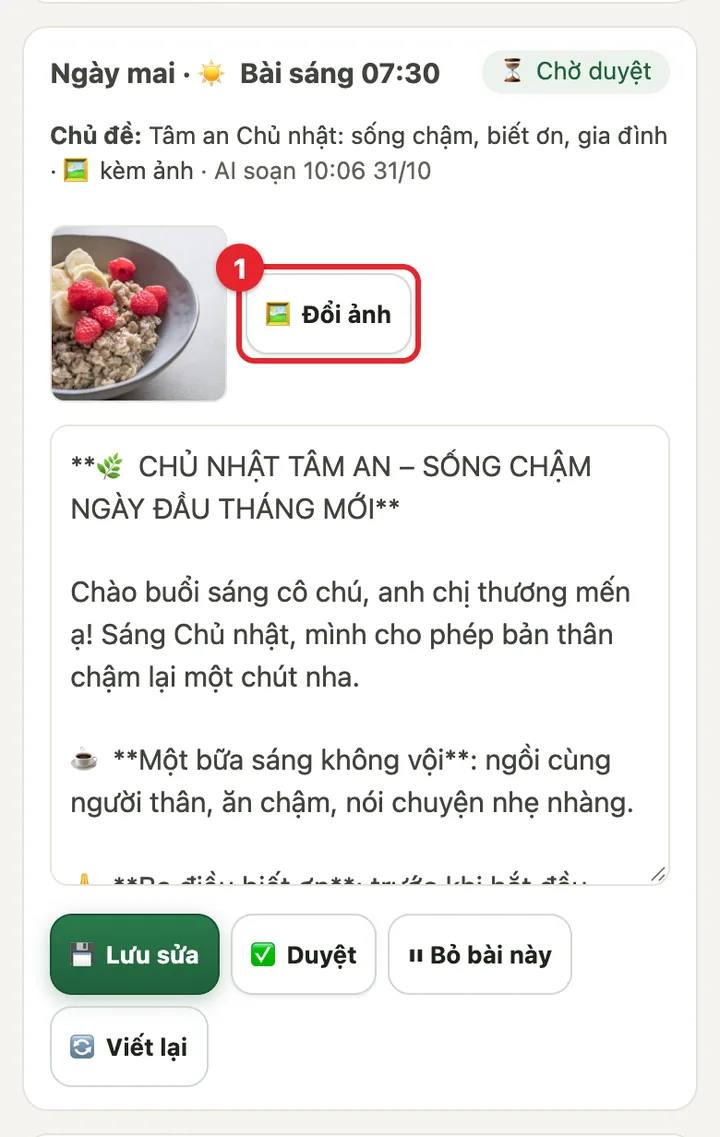
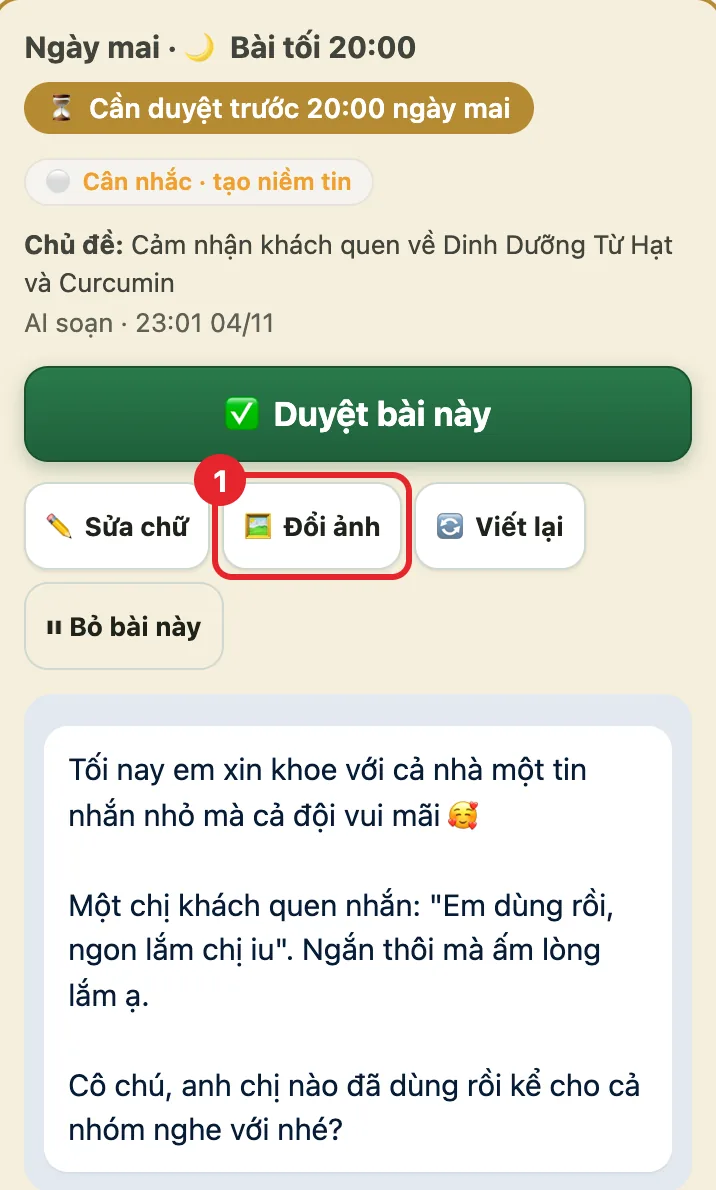
CRM Trợ lý Zalo: bài cần duyệt lên đầu (viền vàng, hạn duyệt), xem trước giống Zalo, nút Duyệt to, Sửa chữ mở khi cần, bài đã đăng thu gọn; hướng dẫn có ảnh mới

diff --git a/crm/app.js b/crm/app.js
@@ -5240,27 +5240,41 @@
     var fu = j.funnel || {}, fk = ['TOFU', 'MOFU', 'BOFU', 'TIN', 'CHUC'].filter(function (k) { return fu[k]; });
     if (fk.length) h += '<h2 class="zb-h">📊 Hiệu quả bài đăng theo phễu (30 ngày)</h2><p class="muted small">Đếm trong 2 tiếng sau mỗi bài: số người nhắn / gửi ảnh / thả cảm xúc (không tính đội ngũ). Đơn: khách bấm link trong bài rồi đặt trên web.</p><div class="zb-funs">' +
       fk.map(function (k) { var f = fu[k]; return '<div class="box zb-funbox"><span class="zb-fun zb-fun-' + k.toLowerCase() + '">' + ZB_FUN[k] + '</span><p><b>' + f.posts + '</b> bài · trung bình <b>' + (Math.round(f.people / f.posts * 10) / 10) + '</b> người tương tác / bài</p><p class="small muted">💬 ' + f.msgs + ' tin · ❤ ' + f.reacts + ' cảm xúc' + (f.orders ? ' · 🛒 ' + f.orders + ' đơn, ' + moneyShort(f.rev) : '') + '</p></div>'; }).join('') + '</div>';
-    h += '<h2 class="zb-h">📝 Bài đăng nhóm</h2><p class="muted small">AI soạn trước theo lịch chủ đề trong tuần, dùng đúng thông tin sản phẩm trên web. ' + (c.slots || []).filter(function (q) { return q.on; }).map(function (q) { return (q.id === 'toi' ? '🌙 Bài tối ' : '☀ Bài sáng ') + q.at + ': <b>' + (slA(q.id) ? '🤖 tự đăng' : '⏳ chờ duyệt') + '</b>'; }).join(' · ') + '. Tự đăng: tới giờ trợ lý đăng bài AI soạn, thấy chưa ổn thì sửa ngay trong ô hoặc bấm <b>⏸ Bỏ bài này</b>. Chờ duyệt: chỉ bài đã bấm <b>✅ Duyệt</b> mới được đăng. Đổi ở <b>⚙ Cài đặt trợ lý</b>.</p>';
-    days.forEach(function (d) {
-      (c.slots || []).forEach(function (sl) {
-        var p = P[d + '_' + sl.id]; if (!p && !sl.on) return;
-        var lbl = zbDay(d) + ' · ' + (sl.id === 'toi' ? '🌙 Bài tối' : '☀ Bài sáng') + ' ' + sl.at;
-        var auto = slA(sl.id);
-        if (!p) { if (new Date(d.slice(0, 4) + '-' + d.slice(4, 6) + '-' + d.slice(6, 8) + 'T' + (sl.at || '00:00') + ':00+07:00').getTime() < j.now) return; h += '<div class="box zb-post zb-none"><p><b>' + lbl + '</b> · <span class="muted">⏳ chưa soạn – AI soạn trước giờ đăng</span></p><button class="btn sm" data-zb="regen|' + d + '_' + sl.id + '">✍ Soạn ngay</button></div>'; return; }
-        var badge = p.status === 'sent' ? '📤 Đã đăng ' + fDateTime(p.sent_at) : p.status === 'fail' ? '⚠ Không đăng được (xem 🕘 Trợ lý vừa làm gì)' : p.status === 'skip' ? '⏸ Đã bỏ, không đăng' : p.status === 'ok' ? '✅ Đã duyệt, sẽ đăng lúc ' + sl.at : auto ? '✍ Nháp, sẽ tự đăng lúc ' + sl.at : '⏳ Chờ duyệt';
-        var done = p.status === 'sent';
-        h += '<div class="box zb-post zb-' + p.status + '"><div class="zb-ph"><b>' + lbl + '</b><span class="zb-badge">' + badge + '</span></div>' +
-          (p.funnel ? '<span class="zb-fun zb-fun-' + p.funnel.toLowerCase() + '">' + ZB_FUN[p.funnel] + '</span>' : '') +
-          (done ? '<p class="small zb-eng">📊 2 tiếng sau khi đăng: <b>' + (p.eng_people || 0) + '</b> người tương tác · 💬 ' + (p.eng_msgs || 0) + ' tin · ❤ ' + (p.eng_reacts || 0) + ' cảm xúc' + (p.orders ? ' · 🛒 <b>' + p.orders + ' đơn</b> (' + moneyShort(p.rev) + ') từ link trong bài' : '') + '</p>' : '') +
-          '<p class="small"><b>Chủ đề:</b> ' + esc(p.topic) + (p.img ? ' · 🖼 kèm ảnh' : ' · <span class="muted">không kèm ảnh</span>') + ' <span class="muted">· ' + (p.by_name && p.by_name !== 'AI' ? 'sửa bởi ' + esc(p.by_name) : 'AI soạn') + ' ' + fDateTime(p.at) + '</span></p>' +
-          '<div class="zb-imgbar">' + (p.img ? '<img class="zb-img" src="' + esc(p.img) + '" alt="Ảnh kèm bài" loading="lazy">' : '') + (done ? '' : '<button class="btn sm" data-zb="img|' + p.id + '">🖼 ' + (p.img ? 'Đổi ảnh' : 'Thêm ảnh') + '</button>') + '</div>' +
-          '<textarea class="zb-text" id="zbT_' + p.id + '" rows="' + Math.min(16, Math.max(4, String(p.text).split('\n').length + 1)) + '"' + (done ? ' readonly' : '') + '>' + esc(p.text) + '</textarea>' +
-          (done ? '' : '<div class="lq-btns"><button class="btn sm pri" data-zb="save|' + p.id + '">💾 Lưu sửa</button>' + (!auto && p.status !== 'ok' ? '<button class="btn sm" data-zb="ok|' + p.id + '">✅ Duyệt</button>' : '') +
-            (p.status === 'skip' ? '<button class="btn sm" data-zb="draft|' + p.id + '">▶ Đăng lại bài này</button>' : '<button class="btn sm ghost" data-zb="skip|' + p.id + '">⏸ Bỏ bài này</button>') +
-            '<button class="btn sm ghost" data-zb="regen|' + p.id + '">🔄 Viết lại</button></div>') + '</div>';
-      });
+    // 📝 bài đăng (05/11/2026 sắp lại): bài cần duyệt lên đầu + xem trước giống Zalo, bài đã đăng thu gọn 1 dòng
+    var items = [];
+    days.forEach(function (d) { (c.slots || []).forEach(function (sl) { var p = P[d + '_' + sl.id]; if (!p && !sl.on) return; items.push({ d: d, sl: sl, p: p, t: new Date(d.slice(0, 4) + '-' + d.slice(4, 6) + '-' + d.slice(6, 8) + 'T' + (sl.at || '00:00') + ':00+07:00').getTime() }); }); });
+    var isDone = function (it) { return it.p && (it.p.status === 'sent' || it.p.status === 'skip' || it.p.status === 'fail' || it.t + 2 * 3600e3 < j.now); };
+    var todo = items.filter(function (it) { return !isDone(it) && (it.p || it.t > j.now); }).sort(function (x, y) { return x.t - y.t; });
+    var past = items.filter(isDone).sort(function (x, y) { return y.t - x.t; });
+    var slotTxt = function (sl) { return (sl.id === 'toi' ? '🌙 Bài tối ' : '☀ Bài sáng ') + sl.at; };
+    h += '<div class="zb-done-h"><h2 class="zb-h">📝 Bài đăng nhóm</h2><span class="small">' + (c.slots || []).filter(function (q) { return q.on; }).map(function (q) { return slotTxt(q) + ': <b>' + (slA(q.id) ? '🤖 tự đăng' : '⏳ chờ duyệt') + '</b>'; }).join(' · ') + '</span></div>' +
+      '<details class="zb-info small"><summary>ⓘ Cách hoạt động</summary><p>AI soạn trước theo lịch chủ đề trong tuần, dùng đúng thông tin sản phẩm trên web. <b>Chờ duyệt</b>: chỉ bài đã bấm <b>✅ Duyệt</b> mới được đăng. <b>Tự đăng</b>: tới giờ trợ lý đăng bài AI soạn, thấy chưa ổn thì sửa hoặc bấm <b>⏸ Bỏ bài này</b>. Đổi ở <b>⚙ Cài đặt trợ lý</b>.</p><p>AI tự chọn ảnh: bài về sản phẩm kèm ảnh sản phẩm, bài khác chọn ảnh thật hợp chủ đề (không có ảnh hợp thì chỉ đăng chữ). Không đăng từ 21h45 tới 6h sáng. Khung bên trái là <b>bài sẽ hiện trên Zalo</b>; muốn sửa chữ bấm <b>✏ Sửa chữ</b> (chữ trong **hai dấu sao** sẽ in đậm).</p>' + (j.err ? '<p class="err">Lần soạn lỗi gần nhất: ' + esc(j.err) + '</p>' : '') + '</details>';
+    todo.forEach(function (it) {
+      var p = it.p, sl = it.sl, lbl = zbDay(it.d) + ' · ' + slotTxt(sl), auto = slA(sl.id);
+      if (!p) { h += '<div class="box zb-post zb-none"><p><b>' + lbl + '</b> · <span class="muted">⏳ chưa soạn – AI soạn trước giờ đăng</span></p><button class="btn sm" data-zb="regen|' + it.d + '_' + sl.id + '">✍ Soạn ngay</button></div>'; return; }
+      var when = sl.at + ' ' + zbDay(it.d).toLowerCase(), need = p.status !== 'ok' && !auto;
+      var due = p.status === 'ok' ? '✅ Đã duyệt · sẽ đăng ' + when : auto ? '🤖 Sẽ tự đăng ' + when : '⏳ Cần duyệt trước ' + when;
+      h += '<div class="box zb-post zb-' + p.status + (need ? ' zb-need' : '') + '" data-zbcard="' + p.id + '"><div class="zb-ph"><b>' + lbl + '</b><span class="zb-due">' + due + '</span></div>' +
+        '<div class="zb-grid"><div class="zb-prev">' + (p.img ? '<img src="' + esc(p.img) + '" alt="Ảnh kèm bài" loading="lazy">' : '') + '<div class="zb-bub">' + zbRender(p.text) + '</div>' + (p.img ? '' : '<p class="small muted" style="margin:6px 2px 0">Bài này không kèm ảnh</p>') + '</div>' +
+        '<div class="zb-side">' + (p.funnel ? '<span class="zb-fun zb-fun-' + p.funnel.toLowerCase() + '">' + ZB_FUN[p.funnel] + '</span>' : '') +
+        '<p class="small" style="margin:6px 0"><b>Chủ đề:</b> ' + esc(p.topic) + '<br><span class="muted">' + (p.by_name && p.by_name !== 'AI' ? 'Sửa bởi ' + esc(p.by_name) : 'AI soạn') + ' · ' + fDateTime(p.at) + '</span></p>' +
+        (need ? '<button class="btn pri zb-act" data-zb="ok|' + p.id + '">✅ Duyệt bài này</button>' : '') +
+        '<div class="zb-more"><button class="btn sm" data-zb="edit|' + p.id + '">✏ Sửa chữ</button><button class="btn sm" data-zb="img|' + p.id + '">🖼 ' + (p.img ? 'Đổi ảnh' : 'Thêm ảnh') + '</button><button class="btn sm" data-zb="regen|' + p.id + '">🔄 Viết lại</button>' +
+        (p.status === 'ok' ? '<button class="btn sm ghost" data-zb="draft|' + p.id + '">↩ Bỏ duyệt</button>' : '') + '<button class="btn sm ghost" data-zb="skip|' + p.id + '">⏸ Bỏ bài này</button></div>' +
+        '<div class="zb-edit"><textarea class="zb-text" id="zbT_' + p.id + '" rows="' + Math.min(18, Math.max(6, String(p.text).split('\n').length + 2)) + '">' + esc(p.text) + '</textarea><div class="lq-btns"><button class="btn sm pri" data-zb="save|' + p.id + '">💾 Lưu</button><button class="btn sm ghost" data-zb="edit|' + p.id + '">Huỷ</button></div></div>' +
+        '</div></div></div>';
     });
-    h += '<p class="bar-legend">Chữ trong <b>**hai dấu sao**</b> sẽ in đậm trên Zalo. AI tự chọn ảnh: bài về sản phẩm kèm ảnh sản phẩm, bài khác chọn ảnh thật hợp chủ đề trong kho ảnh web (không có ảnh hợp thì chỉ đăng chữ). Bấm <b>🖼 Đổi ảnh</b> để chọn ảnh khác hoặc tải ảnh từ máy. Không đăng từ 21h45 tới 6h sáng.' + (j.err ? ' Lần soạn lỗi gần nhất: ' + esc(j.err) : '') + '</p>';
+    if (past.length) {
+      h += '<h3 class="zb-h" style="font-size:1rem">📤 Đã đăng gần đây <span class="muted small">· bấm để xem lại, xem hết ở 📚 Bài đã đăng &amp; hiệu quả</span></h3>';
+      past.forEach(function (it) {
+        var p = it.p; if (!p) return;
+        var st = p.status === 'sent' ? '📤 ' + fDateTime(p.sent_at) : p.status === 'fail' ? '⚠ Không đăng được' : p.status === 'skip' ? '⏸ Đã bỏ' : '⌛ Quá giờ, chưa đăng';
+        h += '<details class="box zb-donei"><summary><span class="zb-donel"><b>' + zbDay(it.d) + ' · ' + slotTxt(it.sl) + '</b> <span class="muted small">' + st + '</span></span><span class="zb-donet">' + esc(p.topic) + '</span>' +
+          (p.status === 'sent' ? '<span class="zb-eng small">👥 <b>' + (p.eng_people || 0) + '</b> · 💬 ' + (p.eng_msgs || 0) + ' · ❤ ' + (p.eng_reacts || 0) + (p.orders ? ' · 🛒 <b>' + p.orders + '</b>' : '') + '</span>' : '') + '</summary>' +
+          '<div class="zb-prev" style="margin-top:10px">' + (p.img ? '<img src="' + esc(p.img) + '" alt="" loading="lazy">' : '') + '<div class="zb-bub">' + zbRender(p.text) + '</div></div>' +
+          (p.status === 'skip' ? '<div class="lq-btns" style="margin-top:8px"><button class="btn sm" data-zb="draft|' + p.id + '">▶ Dùng lại bài này</button></div>' : '') + '</details>';
+      });
+    }
     // cài đặt
     var sg = (st && st.groups) || [], ck = function (k, t, sub) { return '<label class="zb-ck"><input type="checkbox" data-zbc="' + k + '"' + (c[k] ? ' checked' : '') + '><span><b>' + t + '</b>' + (sub ? '<small>' + sub + '</small>' : '') + '</span></label>'; };
     h += '<details class="box zb-set"><summary><b>⚙ Cài đặt trợ lý</b></summary>' +
@@ -5306,9 +5320,10 @@
     var after = function (msg) { return function () { toast(msg); zbFetch(); }; }, fail = function (e) { t.disabled = false; toast(e.message, true); };
     if (v[0] === 'save' || v[0] === 'ok' || v[0] === 'skip' || v[0] === 'draft') {
       var ta = $('#zbT_' + id); t.disabled = true;
-      return api('zb_post', { id: id, text: ta ? ta.value : undefined, status: v[0] === 'save' ? undefined : v[0] }).then(after({ save: 'Đã lưu bài ✓', ok: 'Đã duyệt ✓ Tới giờ trợ lý sẽ đăng.', skip: 'Đã bỏ bài này, trợ lý sẽ không đăng.', draft: 'Đã dùng lại bài này ✓' }[v[0]]), fail);
+      return api('zb_post', { id: id, text: ta ? ta.value : undefined, status: v[0] === 'save' ? undefined : v[0] }).then(after({ save: 'Đã lưu bài ✓', ok: 'Đã duyệt ✓ Tới giờ trợ lý sẽ đăng.', skip: 'Đã bỏ bài này, trợ lý sẽ không đăng.', draft: 'Bài đã quay lại chờ duyệt ✓' }[v[0]]), fail);
     }
     if (v[0] === 'img') return zbImgOpen(id);
+    if (v[0] === 'edit') { var cd = t.closest('[data-zbcard]'); if (cd) { cd.classList.toggle('zb-editing'); var ta2 = $('#zbT_' + id); if (ta2 && cd.classList.contains('zb-editing')) ta2.focus(); } return; }
     if (v[0] === 'regen') {
       var hint = prompt('Muốn AI viết lại thế nào? (vd: “nói về hạt óc chó”, “ngắn hơn”, “vui hơn”). Để trống = viết bài khác cùng chủ đề.', ''); if (hint === null) return;
       var p = id.split('_'); t.disabled = true; t.textContent = '⏳ AI đang viết (khoảng 30 giây)…';
@@ -5347,6 +5362,9 @@
     }
     m.addEventListener('click', function (e) { var b = e.target.closest('[data-zh]'); if (!b) return; var v = b.getAttribute('data-zh').split('|'); if (v[0] === 'open') F.open[v[1]] = !F.open[v[1]]; else F[v[0]] = v[1]; draw(); });
     api('zb_hist', {}).then(function (j) { P = j.posts || []; draw(); }, function (e) { body.innerHTML = '<p class="err">' + esc(e.message) + '</p>'; });
+  }
+  function zbRender(t) { // xem trước như trên Zalo: **đậm**, @tên, link, xuống dòng
+    return esc(String(t || '')).replace(/\*\*([^*\n]+)\*\*/g, '<b>$1</b>').replace(/(https?:\/\/[^\s<]+)/g, '<span class="zb-link">$1</span>').replace(/(^|\s)(@[^\s,.!?]+)/g, '$1<span class="zb-at">$2</span>').replace(/\n/g, '<br>');
   }
   function zbImgOpen(id) { // 🖼 đổi ảnh bài đăng: chọn trong kho ảnh thật của web / tải từ máy / bỏ ảnh
     var p = ((ZB.d && ZB.d.posts) || []).filter(function (x) { return x.id === id; })[0]; if (!p) return;
@@ -5510,7 +5528,7 @@
     if (v[0] === 'del') { if (!confirm('Gỡ trang ' + fpPageOf(id).name + ' khỏi trợ lý? Trợ lý sẽ không trả lời trang này nữa.')) return; t.disabled = true; return api('fp_del', { id: id }).then(after('Đã gỡ trang.'), fail); }
     if (v[0] === 'save' || v[0] === 'ok' || v[0] === 'skip' || v[0] === 'draft') {
       var ta = $('#fpT_' + id), ln = $('#fpL_' + id); t.disabled = true;
-      return api('fp_post', { id: id, text: ta ? ta.value : undefined, link: ln ? ln.value : undefined, status: v[0] === 'save' ? undefined : v[0] }).then(after({ save: 'Đã lưu bài ✓', ok: 'Đã duyệt ✓ Tới giờ sẽ đăng.', skip: 'Đã bỏ bài này.', draft: 'Đã dùng lại bài này ✓' }[v[0]]), fail);
+      return api('fp_post', { id: id, text: ta ? ta.value : undefined, link: ln ? ln.value : undefined, status: v[0] === 'save' ? undefined : v[0] }).then(after({ save: 'Đã lưu bài ✓', ok: 'Đã duyệt ✓ Tới giờ sẽ đăng.', skip: 'Đã bỏ bài này.', draft: 'Bài đã quay lại chờ duyệt ✓' }[v[0]]), fail);
     }
     if (v[0] === 'now') {
       if (!confirm('Đăng bài này lên fanpage ngay bây giờ?')) return;

diff --git a/crm/app.css b/crm/app.css
@@ -1501,3 +1501,32 @@ table.dy-tbl tbody tr:nth-child(even):not(.tot) td.dy-sum { background: var(--pr
 .zb-hsum span { font-size: 11px; color: var(--muted); line-height: 1.25; display: block; }
 .zb-hrow { cursor: pointer; padding: 10px 12px; margin: 0 0 8px; }
 .zb-htext { white-space: pre-wrap; font: inherit; font-size: 14px; background: var(--bg); border-radius: var(--radius-sm); padding: 8px 10px; margin: 6px 0 0; }
+/* 📝 bài đăng nhóm Zalo (05/11/2026): xem trước giống Zalo, bài cần duyệt nổi bật, bài đã đăng thu gọn */
+.zb-done-h { display: flex; flex-wrap: wrap; align-items: baseline; gap: 4px 12px; }
+.zb-done-h .zb-h { margin-bottom: 0; }
+.zb-info { margin: 6px 0 12px; color: var(--mid); }
+.zb-info summary { cursor: pointer; color: var(--primary); font-weight: 600; }
+.zb-info p { margin: 6px 0 0; }
+.zb-need { border: 2px solid var(--gold); background: var(--gold-light); }
+.zb-due { font-size: .85rem; font-weight: 600; border-radius: 999px; padding: 3px 12px; background: var(--primary-light); color: var(--primary); }
+.zb-need .zb-due { background: var(--gold); color: #fff; }
+.zb-grid { display: grid; grid-template-columns: 1fr; gap: 12px; margin-top: 8px; }
+@media (min-width: 900px) { .zb-grid { grid-template-columns: minmax(320px, 420px) 1fr; align-items: start; } }
+.zb-prev { background: #e2e9f1; border-radius: 14px; padding: 10px; max-width: 460px; }
+.zb-prev img { display: block; width: 100%; max-height: 360px; object-fit: cover; border-radius: 12px; margin-bottom: 6px; }
+.zb-bub { background: #fff; border-radius: 12px; padding: 10px 12px; font-size: 15px; line-height: 1.5; color: #081c36; word-wrap: break-word; box-shadow: 0 1px 1px rgba(0,0,0,.06); }
+.zb-link { color: #0068ff; word-break: break-all; }
+.zb-at { color: #0068ff; font-weight: 600; }
+.zb-side { min-width: 0; }
+.zb-act { width: 100%; min-height: 48px; font-size: 1.05rem; margin: 6px 0 10px; }
+.zb-more { display: flex; flex-wrap: wrap; gap: 6px; }
+.zb-edit { display: none; margin-top: 10px; }
+.zb-editing .zb-edit { display: block; }
+.zb-donei { padding: 10px 12px; margin: 0 0 8px; }
+.zb-donei > summary { cursor: pointer; display: flex; flex-wrap: wrap; gap: 4px 12px; align-items: center; list-style: none; }
+.zb-donei > summary::-webkit-details-marker { display: none; }
+.zb-donel { white-space: nowrap; }
+.zb-donet { flex: 1 1 200px; min-width: 0; }
+.zb-donei .zb-eng { margin: 0; padding: 3px 10px; }
+@media (max-width: 899px) { .zb-grid .zb-side { order: -1; } .zb-prev img { max-height: 240px; } }
+@media (min-width: 900px) { .zb-prev img { max-height: 300px; } }

diff --git a/guide/zalo.md b/guide/zalo.md
@@ -2,7 +2,7 @@
 title: Trợ lý Zalo An Lành
 nav: Trợ lý Zalo
 order: 8
-updated: 2026-10-31
+updated: 2026-11-05
 description: Cài đặt và sử dụng tài khoản Zalo "Trợ lý An Lành" trong nhóm Sống khỏe cùng Thực Dưỡng Lành – chào người mới, trả lời, đăng bài, chuyển ca khó cho người thật.
 ---
 
@@ -49,14 +49,27 @@ Vào CRM, bấm **Zalo** trên thanh menu. Quản trị thì vào **Tổng quan 
 
 ## Việc mỗi ngày: duyệt bài
 
-Khi Telegram báo **"📝 Bài Zalo chờ duyệt"**, bạn vào tab và tìm bài **Ngày mai**.
+Khi Telegram báo **"📝 Bài Zalo chờ duyệt"**, bạn vào tab Zalo. **Bài cần duyệt nằm trên cùng, có viền vàng** và ghi rõ hạn, ví dụ "⏳ Cần duyệt trước 20:00 ngày mai".
 
-![Các nút dưới mỗi bài: 1 Duyệt, 2 Lưu sửa, 3 Viết lại, 4 Bỏ bài này](/huong-dan/img/zalo-duyet.webp)
+Khung xanh nhạt bên dưới là **bài sẽ hiện y như vậy trên Zalo** (ảnh, chữ đậm, link).
 
-1. Đọc bài. Bài ổn thì bấm **✅ Duyệt** là xong.
-2. Muốn sửa chữ thì sửa ngay trong ô, bấm **💾 Lưu sửa**, rồi bấm **✅ Duyệt**.
+![Bài cần duyệt: 1 Duyệt bài này, 2 Sửa chữ, 3 Viết lại, 4 Bỏ bài này](/huong-dan/img/zalo-duyet.webp)
+
+1. Đọc bài. Bài ổn thì bấm **✅ Duyệt bài này** là xong.
+2. Muốn sửa vài chữ thì bấm **✏ Sửa chữ** (xem bước sửa bên dưới).
 3. Muốn bài khác thì bấm **🔄 Viết lại**, gõ ý muốn (ví dụ "ngắn hơn"), chờ 30 giây.
 4. Không muốn đăng thì bấm **⏸ Bỏ bài này**.
+
+**Sửa chữ:**
+
+![Ô sửa chữ: 1 sửa nội dung, 2 Lưu](/huong-dan/img/zalo-sua-chu.webp)
+
+1. Sửa ngay trong ô. Chữ muốn in đậm thì để trong **hai dấu sao**, ví dụ `**Hạt sen**`.
+2. Bấm **💾 Lưu**, rồi bấm **✅ Duyệt bài này**. Bấm **Huỷ** nếu không muốn sửa nữa.
+
+Bài đã duyệt hiện **✅ Đã duyệt · sẽ đăng…**. Đổi ý thì bấm **↩ Bỏ duyệt**.
+
+**Bài đã đăng** được thu gọn ở mục **📤 Đã đăng gần đây**, mỗi bài 1 dòng kèm số 👥 người · 💬 tin · ❤ cảm xúc. Bấm vào dòng để xem lại bài.
 
 **Khung giờ đang để Chờ duyệt: bài chưa bấm Duyệt thì trợ lý không đăng.** Khung giờ để Tự đăng thì không cần bấm Duyệt (xem phần *Chọn giờ nào tự đăng* bên dưới).
 
@@ -86,9 +99,9 @@ Mỗi tuần nên xem 1 lần: bài nào nhiều người hưởng ứng thì nh
 
 AI tự chọn ảnh. Bài nói về sản phẩm thì kèm ảnh sản phẩm. Bài khác thì AI chọn một ảnh trên web hợp với chủ đề. Không có ảnh hợp thì bài chỉ có chữ.
 
-![Dưới bài: 1 nút Đổi ảnh](/huong-dan/img/zalo-doi-anh.webp)
+![Bài cần duyệt: 1 nút Đổi ảnh](/huong-dan/img/zalo-doi-anh.webp)
 
-1. Bấm **🖼 Đổi ảnh** dưới bài. Bài chưa có ảnh thì nút ghi **🖼 Thêm ảnh**.
+1. Bấm **🖼 Đổi ảnh** ở bài cần đổi. Bài chưa có ảnh thì nút ghi **🖼 Thêm ảnh**.
 
 ![Khung chọn ảnh: 1 ảnh trong kho, 2 Tải ảnh từ máy, 3 Không kèm ảnh](/huong-dan/img/zalo-chon-anh.webp)
 
